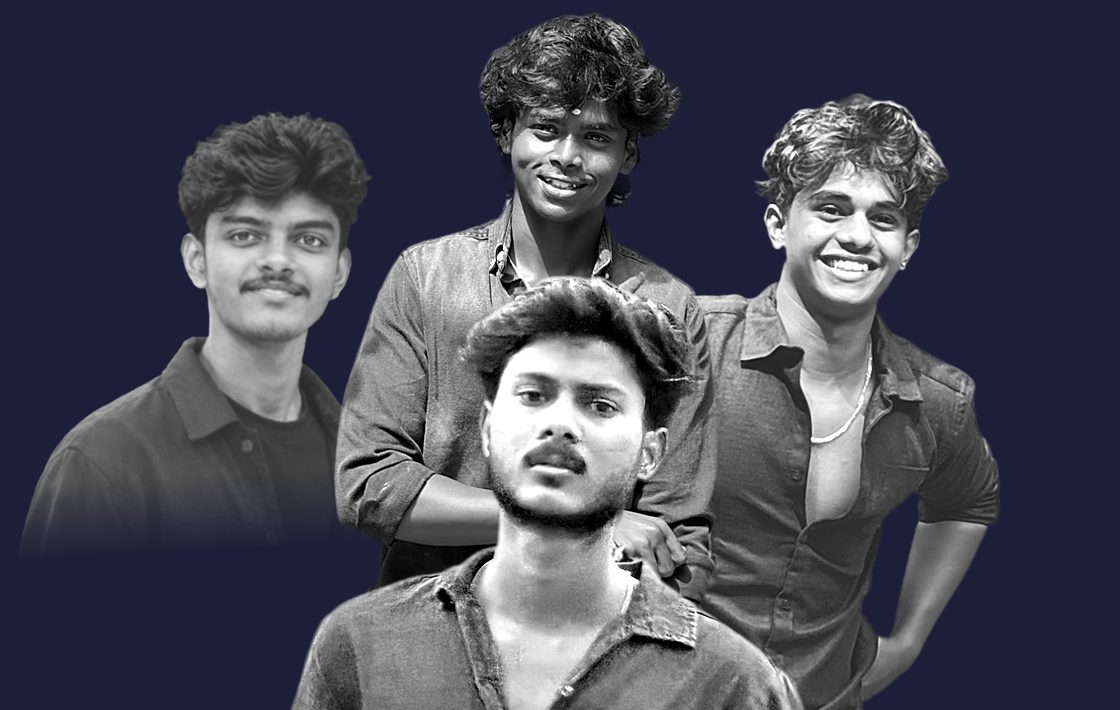
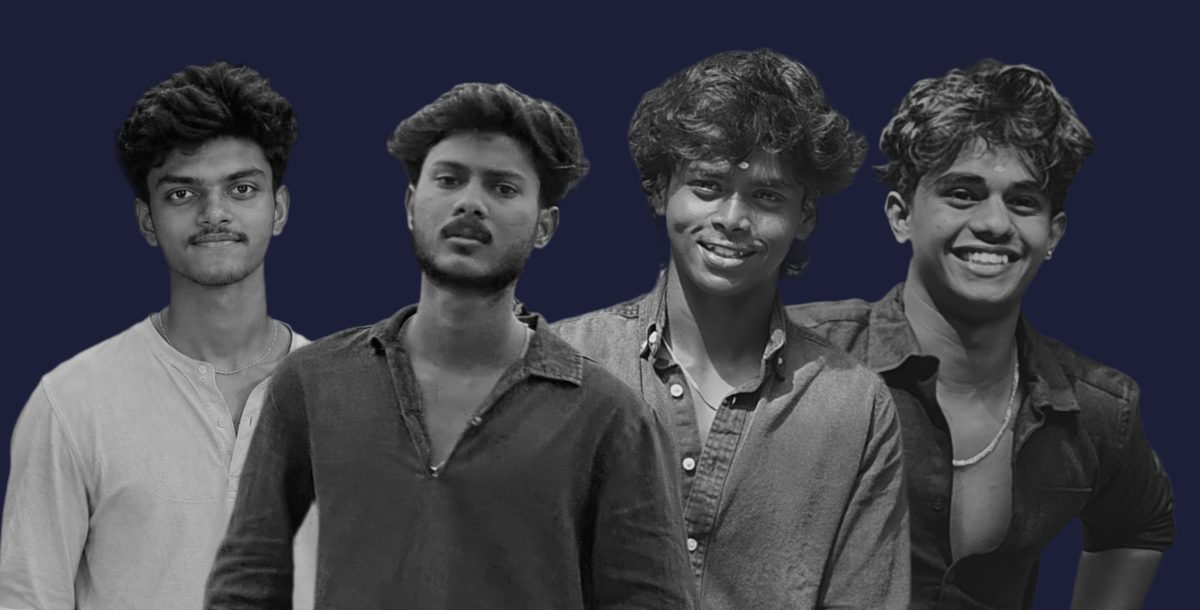
Line the team up in one even row with Shyan's new photo, everyone graded to match it

diff --git a/src/lib/content.ts b/src/lib/content.ts
@@ -103,23 +103,9 @@ export type Member = {
   x: number;
   from: number;
   to: number;
-  /** Top and bottom of the clickable area in % of the height, when not the full height. */
-  y?: [number, number];
 };
 
 export const TEAM: Member[] = [
-  {
-    id: "suhail",
-    name: "Suhail",
-    role: "Founder and CEO",
-    line: "Started Igloo Ads and sets the direction for every brand we take on.",
-    handle: "@moh_suhaill",
-    instagram: "https://www.instagram.com/moh_suhaill/",
-    x: 50.4,
-    from: 34,
-    to: 66,
-    y: [37, 100],
-  },
   {
     id: "shyan",
     name: "Shyan",
@@ -127,9 +113,20 @@ export const TEAM: Member[] = [
     line: "Builds the websites and keeps the tech behind every campaign running.",
     handle: "@_shyan7",
     instagram: "https://www.instagram.com/_shyan7/",
-    x: 24.1,
+    x: 17.5,
     from: 0,
-    to: 34,
+    to: 28.3,
+  },
+  {
+    id: "suhail",
+    name: "Suhail",
+    role: "Founder and CEO",
+    line: "Started Igloo Ads and sets the direction for every brand we take on.",
+    handle: "@moh_suhaill",
+    instagram: "https://www.instagram.com/moh_suhaill/",
+    x: 39.2,
+    from: 28.3,
+    to: 50,
   },
   {
     id: "sudhir",
@@ -138,10 +135,9 @@ export const TEAM: Member[] = [
     line: "Runs the shoots, schedules and deliveries so nothing ever slips.",
     handle: "@_sudhir.____",
     instagram: "https://www.instagram.com/_sudhir.____/",
-    x: 51.8,
-    from: 34,
-    to: 66,
-    y: [0, 37],
+    x: 60.8,
+    from: 50,
+    to: 71.7,
   },
   {
     id: "ajay",
@@ -150,8 +146,8 @@ export const TEAM: Member[] = [
     line: "Dreams up the concepts, then steps in front of the camera himself.",
     handle: "@_ajayy.13_",
     instagram: "https://www.instagram.com/_ajayy.13_/",
-    x: 76.3,
-    from: 66,
+    x: 82.5,
+    from: 71.7,
     to: 100,
   },
 ];

diff --git a/src/components/Team.tsx b/src/components/Team.tsx
@@ -9,11 +9,11 @@ import sudhir from "../../public/media/team-sudhir.webp";
 import ajay from "../../public/media/team-ajay.webp";
 
 const LAYERS = { shyan, suhail, sudhir, ajay };
-// Back to front: Suhail, the founder, stands first, in front; Sudhir looks over his head.
+// Back to front, so the founder's shoulders sit in front of his neighbours'.
 const PAINT = ["shyan", "ajay", "sudhir", "suhail"] as const;
 
 /**
- * The team as one black and white group photo, the founder in the centre on a dark studio backdrop,
+ * The team as one black and white group photo on a dark studio backdrop,
  * framed like the opening's viewfinder. Each person is a separate layer:
  * hovering (or tapping) someone keeps him lit while the others drop into
  * shadow, and a caption in the corner introduces him with his role and
@@ -88,12 +88,7 @@ export default function Team() {
               target="_blank"
               rel="noopener noreferrer"
               className="team-hit"
-              style={{
-                left: `${t.from}%`,
-                width: `${t.to - t.from}%`,
-                top: `${t.y?.[0] ?? 0}%`,
-                height: `${(t.y?.[1] ?? 100) - (t.y?.[0] ?? 0)}%`,
-              }}
+              style={{ left: `${t.from}%`, width: `${t.to - t.from}%` }}
               aria-label={`${t.name}, ${t.role}. ${t.handle} on Instagram`}
               onPointerEnter={hover(i)}
               onFocus={focus(i)}

diff --git a/src/app/globals.css b/src/app/globals.css
@@ -1244,7 +1244,7 @@
   }
   .team-photo {
     position: relative;
-    aspect-ratio: 1120 / 710;
+    aspect-ratio: 1200 / 610;
   }
   .team-layer {
     position: absolute;
@@ -1278,6 +1278,8 @@
   }
   .team-hit {
     position: absolute;
+    top: 0;
+    bottom: 0;
     z-index: 6;
     cursor: pointer;
   }

diff --git a/scripts/team_photo.py b/scripts/team_photo.py
@@ -11,6 +11,7 @@ Run:   python3 scripts/team_photo.py
 The originals in assets/team are only read, never changed.
 """
 
+import math
 from pathlib import Path
 
 from PIL import Image, ImageFilter, ImageOps
@@ -26,27 +27,26 @@ DEEP = (29, 31, 56)
 
 # Measured on the photos after they are shrunk to fit 2400px: the eye line,
 # the chin and the face centre. Faces are scaled so eye-to-chin matches,
-# times scale (the back row stands further away, so smaller).
-# x: face centre; drop: how far the eyes sit below EYE_Y (negative is higher);
-# tilt: lean in degrees, positive leans left; fade: source row where a photo
-# cropped higher than the others starts to fade out; soft: a studio shot
-# with cleaner light than the others, toned down to match them.
+# times scale where a face still reads smaller than the others.
+# x: face centre in the row; drop: how far the eyes sit below EYE_Y
+# (negative is higher).
 PEOPLE = {
-    "shyan": dict(file="shyan-2.jpg", eye=478, chin=705, cx=655, scale=1.02, x=455, drop=-50, tilt=3, fade=1020, soft=True),
-    "sudhir": dict(file="sudhir.jpg", eye=890, chin=998, cx=846, scale=0.84, x=725, drop=-158, tilt=0),
-    "ajay": dict(file="ajay.heic", eye=1030, chin=1165, cx=1092, scale=0.86, x=990, drop=-80, tilt=-3),
-    "suhail": dict(file="suhail.heic", eye=1130, chin=1250, cx=650, scale=1.3, x=720, drop=110, tilt=0),
+    "shyan": dict(file="shyan-3.jpg", eye=372, chin=498, cx=563, scale=1.0, x=330, drop=0),
+    "suhail": dict(file="suhail.heic", eye=1130, chin=1250, cx=650, scale=1.06, x=590, drop=-6),
+    "sudhir": dict(file="sudhir.jpg", eye=890, chin=998, cx=846, scale=1.0, x=850, drop=0),
+    "ajay": dict(file="ajay.heic", eye=1030, chin=1165, cx=1092, scale=1.0, x=1110, drop=4),
 }
-# Painted back to front: Suhail, the founder, stands first, in front and in
-# the centre; the other three stand behind him, Sudhir looking over his head.
+# Painted back to front, so the founder's shoulders sit in front of his
+# neighbours'.
 PAINT_ORDER = ["shyan", "ajay", "sudhir", "suhail"]
+# Everyone is graded to match this photo's face: its brightness, contrast
+# and soft, deep-black look.
+REFERENCE = "shyan"
 EYE_TO_CHIN = 95
-TONE_MEAN, TONE_STD = 112, 58
-# Taller than the final frame, so a leaning body still fills the bottom edge.
-CANVAS = (1440, 1000)
+CANVAS = (1440, 760)
 EYE_Y = 300
 # Final frame: trims the empty space above the tallest head and at the sides.
-FRAME = (160, 10, 1280, 720)
+FRAME = (120, 110, 1320, 720)
 
 
 def cut_out(p, session):
@@ -58,11 +58,6 @@ def cut_out(p, session):
     # Faint leftovers of the old background are dropped first.
     a = im.getchannel("A").point(lambda v: 0 if v < 60 else v)
     a = a.filter(ImageFilter.MinFilter(5)).filter(ImageFilter.GaussianBlur(1.2))
-    if p.get("fade"):
-        ramp = ImageOps.invert(Image.linear_gradient("L").resize((im.width, im.height - p["fade"])))
-        keep = Image.new("L", im.size, 255)
-        keep.paste(ramp, (0, p["fade"]))
-        a = Image.composite(a, Image.new("L", im.size, 0), keep)
     im.putalpha(a)
     return im
 
@@ -78,41 +73,53 @@ def layer(im, p):
     y = round(EYE_Y + p["drop"] - (p["eye"] - y0) * s)
     canvas = Image.new("RGBA", CANVAS, (0, 0, 0, 0))
     canvas.alpha_composite(im, (max(0, x), max(0, y)), (max(0, -x), max(0, -y)))
-    if p["tilt"]:
-        canvas = canvas.rotate(p["tilt"], Image.BICUBIC, center=(p["x"], FRAME[3]))
     return canvas
 
 
-def to_grey(rgba, soft=False):
+def face_box(p):
+    """The face, from the brows to the chin, on the canvas."""
+    e = EYE_TO_CHIN * p["scale"]
+    eye = EYE_Y + p["drop"]
+    return (round(p["x"] - 0.7 * e), round(eye - 0.3 * e), round(p["x"] + 0.7 * e), round(eye + e))
+
+
+def stats(grey, alpha, box):
+    vals = [g for g, a in zip(grey.crop(box).getdata(), alpha.crop(box).getdata()) if a > 200]
+    mean = sum(vals) / len(vals)
+    return mean, (sum((v - mean) ** 2 for v in vals) / len(vals)) ** 0.5
+
+
+# A gentle S-curve: deeper blacks and brighter highlights, mid-tones kept.
+S_CURVE = [round(255 * (0.5 + 0.5 * math.tanh(1.8 * (g / 255 - 0.5)) / math.tanh(0.9))) for g in range(256)]
+
+
+def to_grey(rgba, box, target=None):
+    """Black and white. With a target (mean, std), the face is graded to
+    match it and polished: a touch of smoothing, the S-curve, then crisp
+    detail. Without one, the photo is only turned grey."""
     grey = ImageOps.grayscale(rgba.convert("RGB"))
-    # Match the tones: shift and stretch each person's greys so everyone
-    # share the same brightness and contrast, whatever light they were shot in.
     alpha = rgba.getchannel("A")
-    solid = [g for g, a in zip(grey.getdata(), alpha.getdata()) if a > 200]
-    mean = sum(solid) / len(solid)
-    std = (sum((g - mean) ** 2 for g in solid) / len(solid)) ** 0.5
-    if soft:
-        # Flatter, dimmer light and a touch of softness, like a phone photo
-        # rather than a studio portrait.
-        target_mean, target_std = TONE_MEAN - 8, TONE_STD - 12
-        grey = grey.filter(ImageFilter.GaussianBlur(0.9))
-    else:
-        target_mean, target_std = TONE_MEAN, TONE_STD
-    grey = grey.point(lambda g: max(0, min(255, round(target_mean + (g - mean) * target_std / std))))
-    if not soft:
-        grey = grey.filter(ImageFilter.UnsharpMask(radius=1.6, percent=60, threshold=2))
-    out = Image.merge("RGBA", (grey, grey, grey, rgba.getchannel("A")))
-    return out.crop(FRAME)
+    if target:
+        mean, std = stats(grey, alpha, box)
+        t_mean, t_std = target
+        grey = grey.point(lambda g: max(0, min(255, round(t_mean + (g - mean) * t_std / std))))
+        grey = grey.filter(ImageFilter.GaussianBlur(0.6)).point(S_CURVE)
+        grey = grey.filter(ImageFilter.UnsharpMask(radius=2, percent=55, threshold=3))
+    return Image.merge("RGBA", (grey, grey, grey, alpha)).crop(FRAME)
 
 
 def main():
     session = new_session("isnet-general-use")
+    canvases = {name: layer(cut_out(p, session), p) for name, p in PEOPLE.items()}
+    ref = canvases[REFERENCE]
+    target = stats(ImageOps.grayscale(ref.convert("RGB")), ref.getchannel("A"), face_box(PEOPLE[REFERENCE]))
+    print("reference face", [round(v, 1) for v in target])
     layers = {}
     for name, p in PEOPLE.items():
-        layers[name] = to_grey(layer(cut_out(p, session), p), p.get("soft", False))
+        layers[name] = to_grey(canvases[name], face_box(p), None if name == REFERENCE else target)
         layers[name].save(OUT / f"team-{name}.webp", quality=82, method=6)
         print("layer", name)
-    group = Image.new("RGBA", layers["suhail"].size, DEEP + (255,))
+    group = Image.new("RGBA", layers[REFERENCE].size, DEEP + (255,))
     for name in PAINT_ORDER:
         group.alpha_composite(layers[name])
     group.convert("RGB").save(OUT / "team-group.jpg", quality=82, optimize=True, progressive=True)
